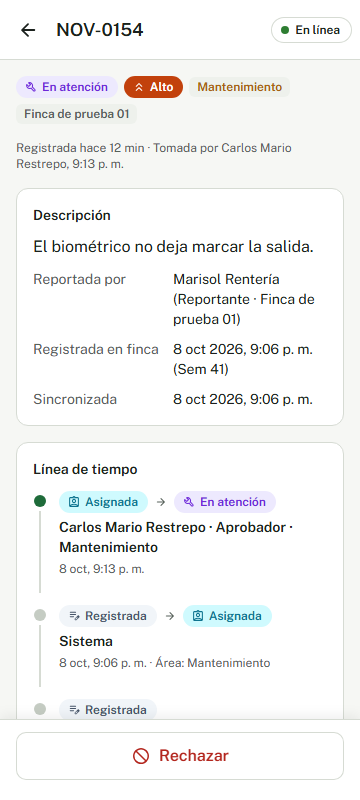
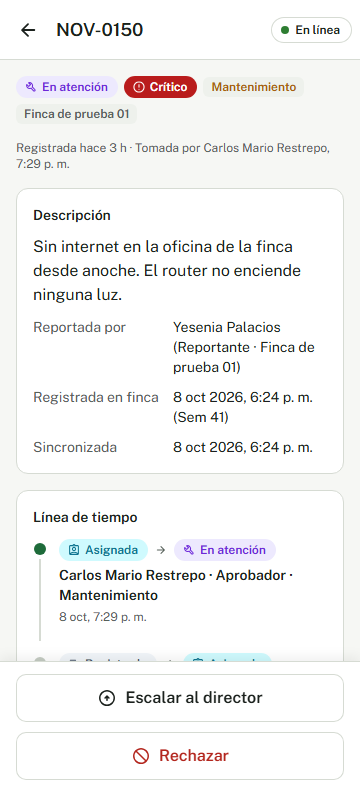
test(RF-12): e2e de CU-12, capturas y decisiones
- e2e/cu-12-escalar-novedad.spec.js: el aprobador toma una novedad y la
  escala con su justificación; pasa a «En espera»; el director y el
  reportante tienen su aviso (leído por la API con la sesión de cada uno).
  CU-12 3a: una asignada no ofrece escalar y sin justificación no se
  confirma; al cancelar no cambia nada.
- Capturas de 14 con «Escalar al director», de la hoja 15 y del detalle
  escalado, a 360 × 800 y 1280 × 800.
- docs/decisiones-pendientes.md: puntos 10, 11 y 22.

diff --git a/e2e/cu-12-escalar-novedad.spec.js b/e2e/cu-12-escalar-novedad.spec.js
@@ -1,0 +1,150 @@
+import { expect, test } from '@playwright/test'
+import { cargarTodaLaLista, novedadesDeLaLista, registrarPorLaApi } from './apoyo/novedades.js'
+import { descripcionUnica } from './apoyo/registro.js'
+import { HAY_CLAVE, ingresarComo, leerDeLaApi, MOTIVO_SIN_CLAVE } from './apoyo/usuarios.js'
+
+/*
+ * CU-12 · Escalar novedad a segunda instancia (RF-12). Pantalla 15 (hoja «Escalar al director
+ * de agricultura»).
+ *
+ * El aviso al director se comprueba leyendo la API con su sesión: su bandeja (pantalla 19)
+ * llega en el Sprint 3 y la pantalla de avisos, en el Sprint 5.
+ */
+
+const ESPERA_DE_SESION = { timeout: 20_000 }
+
+test.describe('CU-12 · Escalar novedad', () => {
+  test.skip(!HAY_CLAVE, MOTIVO_SIN_CLAVE)
+
+  const sesionDe = async (browser, rol) => {
+    const contexto = await browser.newContext()
+    const page = await contexto.newPage()
+    await ingresarComo(page, rol)
+    return { contexto, page }
+  }
+
+  /** El reportante registra una novedad para Mantenimiento y cierra su sesión. */
+  async function registrar(browser, descripcion) {
+    const reportante = await sesionDe(browser, 'reportante')
+    const novedad = await registrarPorLaApi(reportante.page, {
+      descripcion,
+      prioridad: 'critico',
+      area: 'Mantenimiento',
+    })
+    await reportante.contexto.close()
+    return novedad
+  }
+
+  const estadoEnElDetalle = (page, estado) =>
+    page.getByRole('group', { name: 'Datos de la novedad' }).getByText(estado)
+  const escalar = (page) => page.getByRole('button', { name: 'Escalar al director' })
+
+  test('RF-12 / CU-12: el aprobador escala una novedad en atención con su justificación; queda Escalada, pasa a «En espera» y el director y el reportante reciben su aviso', async ({
+    browser,
+  }, testInfo) => {
+    const descripcion = descripcionUnica(testInfo, 'La bomba de riego del lote 4 no enciende')
+    const justificacion = 'El motor se quemó. Hay que comprar uno nuevo; no hay repuesto en bodega.'
+    const novedad = await registrar(browser, descripcion)
+
+    // Precondición: la novedad está en atención.
+    const { contexto, page } = await sesionDe(browser, 'aprobador')
+    await page.goto(`/novedades/${novedad.id}`)
+    await page.getByRole('button', { name: 'Tomar para atención' }).click(ESPERA_DE_SESION)
+    await expect(estadoEnElDetalle(page, 'En atención')).toBeVisible()
+
+    // CU-12 1 y 2: pide escalarla y la hoja solicita la justificación.
+    await escalar(page).click()
+    const hoja = page.getByRole('dialog', { name: 'Escalar al director de agricultura' })
+    await expect(hoja).toBeVisible()
+    await expect(
+      hoja.getByText('Se avisará al director de agricultura y a la finca.'),
+    ).toBeVisible()
+
+    // CU-12 3: escribe la justificación y confirma.
+    await hoja.getByRole('textbox', { name: 'Justificación' }).fill(justificacion)
+    await hoja.getByRole('button', { name: 'Escalar novedad' }).click()
+
+    // CU-12 4 y 5: queda escalada, con la justificación en la línea de tiempo; el aprobador
+    // ya no tiene acciones sobre ella.
+    await expect(page.getByText('Novedad escalada. Queda en espera del director.')).toBeVisible()
+    await expect(hoja).toBeHidden()
+    await expect(estadoEnElDetalle(page, 'Escalada')).toBeVisible()
+    await expect(
+      page
+        .getByRole('region', { name: 'Línea de tiempo' })
+        .getByRole('listitem')
+        .first()
+        .getByText(justificacion),
+    ).toBeVisible()
+    await expect(escalar(page)).toHaveCount(0)
+    await expect(page.getByRole('button', { name: 'Rechazar', exact: true })).toHaveCount(0)
+
+    // En la bandeja pasa a «En espera».
+    await page.goto('/bandeja?pestana=en_espera')
+    await cargarTodaLaLista(page)
+    await expect(novedadesDeLaLista(page).filter({ hasText: descripcion })).toHaveCount(1)
+    await contexto.close()
+
+    // CU-12 6: el director tiene su aviso y ya puede ver la novedad escalada.
+    const director = await sesionDe(browser, 'director')
+    const avisosDelDirector = await leerDeLaApi(
+      director.page,
+      `notificacion?select=estado_nuevo,leida&novedad_id=eq.${novedad.id}`,
+    )
+    expect(avisosDelDirector).toEqual([{ estado_nuevo: 'escalada', leida: false }])
+    const [vista] = await leerDeLaApi(director.page, `v_novedad?select=estado&id=eq.${novedad.id}`)
+    expect(vista).toEqual({ estado: 'escalada' })
+    await director.contexto.close()
+
+    // Y el reportante, el suyo (después del de «en atención»).
+    const reportante = await sesionDe(browser, 'reportante')
+    const avisosDelReportante = await leerDeLaApi(
+      reportante.page,
+      `notificacion?select=estado_nuevo&novedad_id=eq.${novedad.id}&order=creada_en.asc`,
+    )
+    expect(avisosDelReportante).toEqual([
+      { estado_nuevo: 'en_atencion' },
+      { estado_nuevo: 'escalada' },
+    ])
+    await reportante.contexto.close()
+  })
+
+  test('RF-12 / CU-12 3a: una novedad asignada no se puede escalar, y sin justificación no se confirma; al cancelar no cambia nada', async ({
+    browser,
+  }, testInfo) => {
+    const descripcion = descripcionUnica(testInfo, 'El portón de la entrada quedó descolgado')
+    const novedad = await registrar(browser, descripcion)
+
+    // Asignada: todavía no ofrece escalar (primero hay que tomarla).
+    const { contexto, page } = await sesionDe(browser, 'aprobador')
+    await page.goto(`/novedades/${novedad.id}`)
+    await expect(page.getByRole('button', { name: 'Tomar para atención' })).toBeVisible(
+      ESPERA_DE_SESION,
+    )
+    await expect(escalar(page)).toHaveCount(0)
+    await page.getByRole('button', { name: 'Tomar para atención' }).click()
+    await expect(estadoEnElDetalle(page, 'En atención')).toBeVisible()
+
+    // CU-12 3a: con la justificación vacía, o solo con espacios, no se puede confirmar.
+    await escalar(page).click()
+    const hoja = page.getByRole('dialog', { name: 'Escalar al director de agricultura' })
+    const campo = hoja.getByRole('textbox', { name: 'Justificación' })
+    const confirmar = hoja.getByRole('button', { name: 'Escalar novedad' })
+    await expect(confirmar).toBeDisabled()
+    await campo.fill('     ')
+    await expect(confirmar).toBeDisabled()
+    await campo.fill('Hay que comprar la bisagra')
+    await expect(confirmar).toBeEnabled()
+
+    // Al cancelar, la novedad sigue en atención y nadie recibe aviso de escalamiento.
+    await hoja.getByRole('button', { name: 'Cancelar' }).click()
+    await expect(hoja).toBeHidden()
+    await expect(estadoEnElDetalle(page, 'En atención')).toBeVisible()
+    const escalamientos = await leerDeLaApi(
+      page,
+      `historial_transicion?select=id&novedad_id=eq.${novedad.id}&estado_nuevo=eq.escalada`,
+    )
+    expect(escalamientos).toEqual([])
+    await contexto.close()
+  })
+})

diff --git a/docs/decisiones-pendientes.md b/docs/decisiones-pendientes.md
@@ -159,6 +159,8 @@ Redactados en español de Colombia, con tuteo, para que los revisen:
 - **Rechazar novedad (Sprint 2):** el aviso «Novedad rechazada. La finca verá el motivo.»; el botón
   dice «Rechazando…» mientras se ejecuta; para los lectores de pantalla, «Motivos frecuentes»
   (grupo de accesos rápidos) y «Caracteres:» antes del contador.
+- **Escalar novedad (Sprint 2):** el aviso «Novedad escalada. Queda en espera del director.»; el
+  botón dice «Escalando…» mientras se ejecuta.
 - **Mensajes de error de la Tabla 22:** el SDD da la idea de cada uno; la redacción exacta está en
   `src/core/errores/traducir.js`.
 
@@ -184,7 +186,8 @@ carga bajo demanda: la bandeja (5,4 KB), el detalle (4,9 KB) y las acciones del 
 (0,8 KB), que solo descarga ese rol. Lo que sube es el CSS, 1,4 KB desde el Sprint 1.
 
 Con «Rechazar novedad» (RF-11): ≈ 185,7 KB. La hoja y su campo van en el paquete de las acciones
-del aprobador, que pasa a 2,8 KB.
+del aprobador, que pasa a 2,8 KB. Con «Escalar novedad» (RF-12) el total no cambia (185,7 KB) y
+ese paquete pasa a 3,5 KB.
 
 **Riesgo:** el CSS es un solo archivo y crece con cada pantalla (4,2 KB en el Sprint 0; 6,2 KB
 ahora), y los componentes compartidos que usa el ingreso también suman. Hay que seguir midiéndolo
@@ -416,6 +419,13 @@ Lo que Figma no dibuja o deja abierto de las hojas que piden un texto antes de c
   La única excepción es `DATO_OBLIGATORIO`, que se corrige en la misma hoja.
 - **Después de rechazar** (decisión 9): la persona se queda en el detalle, ya rechazado y sin
   acciones, con el motivo en la línea de tiempo.
+- **Después de escalar** (decisión 9): también se queda en el detalle, ya escalado y sin acciones
+  para el aprobador, con la justificación en la línea de tiempo. En la bandeja la novedad pasa a
+  «En espera».
+- **Hoja 15, la novedad que se escala.** El recuadro lleva el código, el nombre de la finca tal
+  como está en el catálogo y la prioridad (Figma escribe «NOV-0150 · Pavarandó»).
+- **«Escalar novedad» deshabilitado** mientras la justificación esté vacía o tenga solo espacios
+  (CU-12 3a), igual que en la hoja 16.
 - **Motivos frecuentes de la hoja 16.** Son accesos rápidos, no un catálogo. Al tocar uno se
   escribe al comienzo del motivo y se conserva lo que la persona ya había escrito («Duplicada: ya
   está en atención como NOV-0149.», como el ejemplo de Figma); tocar otro lo reemplaza y tocar el
